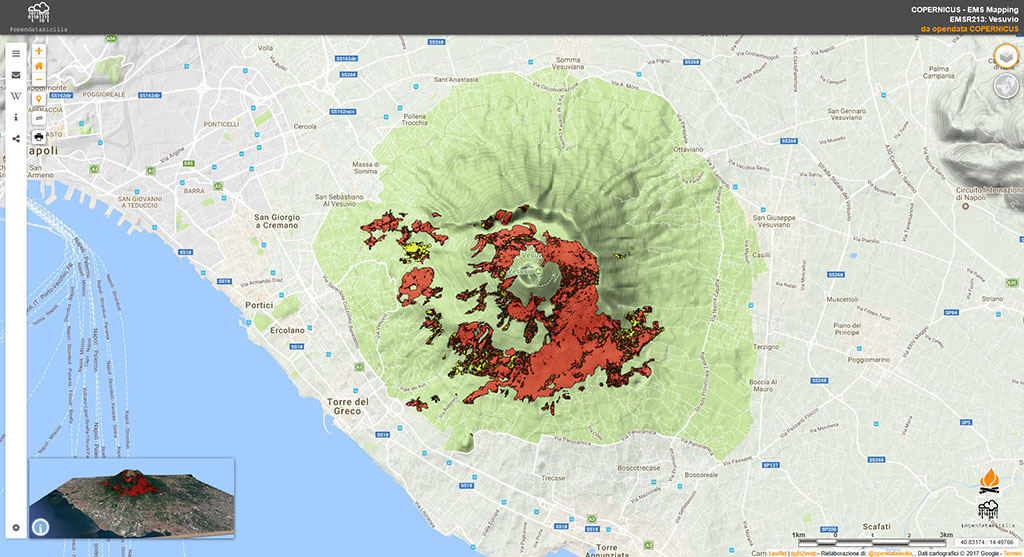
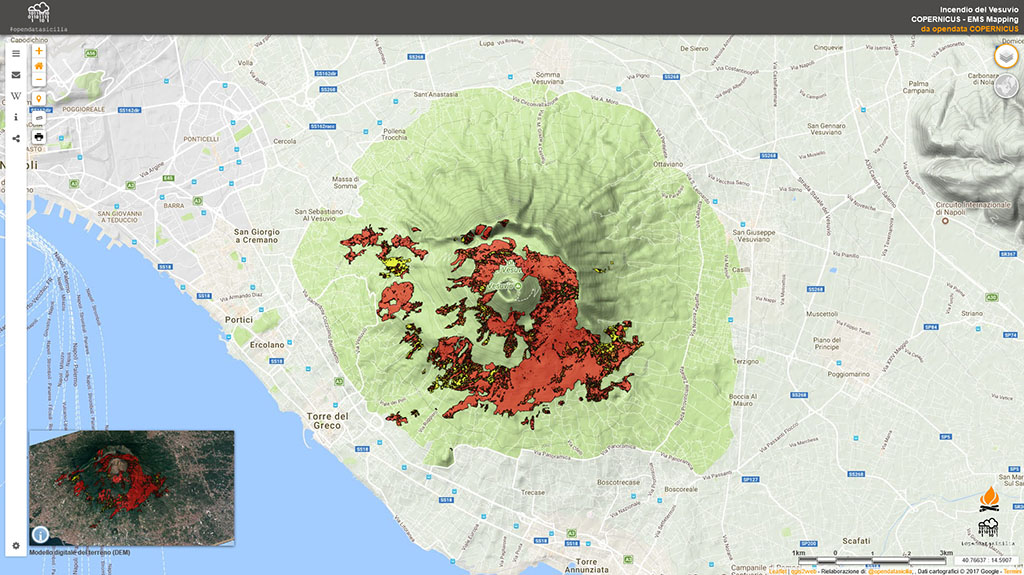
index upgrade

diff --git a/EMSR213/Vesuvio/index.html b/EMSR213/Vesuvio/index.html
@@ -1,10 +1,10 @@
 <!doctype html>
 <html lang="it">
     <head>
- <title>COPERNICUS - Emergency Management Service - EMSR213: Forest Fire in Southern Italy - Vesuvio</title>
+ <title>Incendio Vesuvio, situazione drammatica - COPERNICUS - Emergency Management Service</title>
         <meta charset="utf-8">
         <meta http-equiv="X-UA-Compatible" content="IE=edge">
-        <meta name="description" content="EMSR213: Forest Fire in Southern Italy - Vesuvio su base opendata">
+        <meta name="description" content="COPERNICUS - Emergency Management Service - EMSR213: Forest Fire in Southern Italy - Vesuvio su base opendata">
         <meta name="keywords" content="Open Data,Sicilia, protezione civile, piano emergenza, incendi,">
         <meta name="author" content="Giovan Battista Vitrano per OpenDataSicilia.it">
         <meta http-equiv="content-language" content="IT">
@@ -27,7 +27,7 @@
 </script> 
         
  <!-- Open Graph Protocol -->
-<meta property="og:title" content="EMSR213: Forest Fire in Southern Italy - Vesuvio" />
+<meta property="og:title" content="Incendio Vesuvio, situazione drammatica" />
 <meta property="og:description" content="COPERNICUS - Emergency Management - EMSR213: Forest Fire in Southern Italy - Vesuvio, su base opendata." />
 <meta property="og:url" content="http://siciliahub.github.io/mappe/EMSR213/Vesuvio/index.html" />
 <meta property="article:author" content="Giovan Battista Vitrano per Open Data Sicilia" />
@@ -37,7 +37,7 @@
 
 <!-- twitter -->
 <meta name="twitter:card" content="summary_large_image" />
-<meta name="twitter:title" content="EMSR213: Forest Fire in Southern Italy - Vesuvio">
+<meta name="twitter:title" content="Incendio Vesuvio, situazione drammatica">
 <meta name="twitter:description" content="COPERNICUS - Emergency Management - EMSR213: Forest Fire in Southern Italy - Vesuvio, su base opendata.">
 <meta name="twitter:image" content="http://siciliahub.github.io/mappe/EMSR213/Vesuvio/legend/vesuvio_1024.jpg">
 <meta name="twitter:creator" content="@gbvitrano Giovan Battista Vitrano per Open Data Sicilia">
@@ -114,8 +114,9 @@
  <!-- Tab intro -->
 <div class="sidebar-content">
 <div class="sidebar-pane" id="home">
-<h2 class="sidebar-header">COPERNICUS - E.M.S. Mapping<span class="sidebar-close"><i class="fa fa-caret-left"></i></span></h2>
- <p class="lorem"><strong>COPERNICUS - Emergency Management Service<br>EMSR213: Forest Fire in Southern Italy -  Vesuvio</strong> <a href="http://emergency.copernicus.eu/mapping/list-of-components/EMSR213/ALL/EMSR213_01VESUVIO" title="EMSR213: Forest Fire in Southern Italy -  Vesuvio" target="_blank"><br>da opendata COPERNICUS</a></p>
+<h2 class="sidebar-header">Incendio del Vesuvio<span class="sidebar-close"><i class="fa fa-caret-left"></i></span></h2>
+ <p class="lorem"><strong>L'incendio Vesuvio, una situazione drammatica vista da COPERNICUS - Emergency Management Service<br>
+     <a href="http://emergency.copernicus.eu/mapping/list-of-components/EMSR213" title="EMSR213: Forest Fire in Southern Italy" target="_blank">EMSR213: Forest Fire in Southern Italy</a></strong> <a href="http://emergency.copernicus.eu/mapping/list-of-components/EMSR213/ALL/EMSR213_01VESUVIO" title="EMSR213: Forest Fire in Southern Italy -  Vesuvio" target="_blank"><br>da opendata COPERNICUS</a></p>
 <strong>Authorized User:</strong><br>
 Italy|Presidenza del Consiglio dei Ministri - Dipartimento della Protezione Civile - Centro Situazioni<br><br>
 <strong>Activation Reason: </strong><br>
@@ -131,19 +132,17 @@ During recent weeks almost the whole Italian National Territory has suffered a p
 <!-- Tab info -->
        <div class="sidebar-pane" id="info">
        <h2 class="sidebar-header">Informazioni<span class="sidebar-close"><i class="fa fa-caret-left"></i></span></h2>
- <p class="lorem"> <strong>Rielaborazione di: </strong><a href="https://twitter.com/gbvitrano" target="_blank" title="Giovan Battista Vitrano">@gbvitrano</a><br>per <strong><a href="http://opendatasicilia.it/" Title="Open Data Sicilia" target="_blank">Open Data Sicilia</a></strong><br><br>
- 
-   <p class="lorem"><strong>Fonte dati:</strong> <br>  <a href="http://emergency.copernicus.eu/mapping/list-of-components/EMSR213" title="EMSR213: Forest Fire in Southern Italy" target="_blank">EMSR213: Forest Fire in Southern Italy</a><br>   
-<a href="http://emergency.copernicus.eu/mapping/list-of-components/EMSR213/ALL/EMSR213_01VESUVIO" title="EMSR213: Forest Fire in Southern Italy - Vesuvio" target="_blank">EMSR213: Forest Fire in Southern Italy - Vesuvio</a><br>
+ <p class="lorem"> <strong>Rielaborazione di: </strong><a href="https://twitter.com/gbvitrano" target="_blank" title="Giovan Battista Vitrano">@gbvitrano</a><br>per <strong><a href="http://opendatasicilia.it/" Title="Open Data Sicilia" target="_blank">Open Data Sicilia</a></strong><br>
+   <p class="lorem"><strong>Fonte dati:</strong> <br>  <a href="http://emergency.copernicus.eu/mapping/list-of-components/EMSR213" title="EMSR213: Forest Fire in Southern Italy" target="_blank">EMSR213: Forest Fire in Southern Italy</a>  
+<a href="http://emergency.copernicus.eu/mapping/list-of-components/EMSR213/ALL/EMSR213_01VESUVIO" title="EMSR213: Forest Fire in Southern Italy - Vesuvio" target="_blank">EMSR213: Forest Fire in Southern Italy - Vesuvio</a>
 <p class="lorem">Vector package Vesuvio: <a href="http://emergency.copernicus.eu/mapping/download/143756/EMSR213_01VESUVIO_02GRADING_MAP_v2_vector.zip" title="EMSR213: Forest Fire in Southern Italy - Vesuvio - File Vector SHP KMZ" target="_blank">file Zip</a></p> 
-
-<br><br><br><br><br><br><br><br><br><br><br><br><br><br><br><br><br><br><br><br><br><br>
+<p class="lorem"><strong>News </strong> del 05/07/2017 Brucia ancora il Vesuvio. Un incendio ha distrutto diversi ettari di ... - <a href="http://amalfinotizie.it/incendio-vesuvio/" title="News del 05/07/2017 Brucia ancora il Vesuvio. Un incendio ha distrutto diversi ettari di ... - Amalfi Notizie" target="_blank">Amalfi Notizie</a></p> 
+<p class="lorem"><strong>News </strong> del 11/07/2017 Incendio Vesuvio, situazione drammatica: evacuazioni in corso ... - <a href="http://www.meteoweb.eu/foto/incendio-vesuvio-situazione-drammatica-evacuazioni-in-corso-mandateci-lesercito-e-un-disastro-foto-live/id/931414/" title="Incendio Vesuvio, situazione drammatica: evacuazioni in corso" target="_blank">Meteo Web</a></p> 
+ <a href="http://www.meteoweb.eu/foto/incendio-vesuvio-situazione-drammatica-evacuazioni-in-corso-mandateci-lesercito-e-un-disastro-foto-live/id/931414/" target="_blank" title="EMSR213 - Vesuvio: Grading Map, Monitoring 1 -  JPEG: 200 DPI"><img src="http://www.meteoweb.eu/wp-content/uploads/2017/07/incendio-vesuvio-11-luglio-2017-5-561x420.jpg"alt="EMSR213 - Vesuvio: Grading Map, Monitoring 1" width="400" height="566" class="clip_370" title="News del 11/07/2017 Incendio Vesuvio, situazione drammatica: evacuazioni in corso ... - Meteo Web"/></a><br>
 <p class="lorem">I contenuti della mappa sono rilasciati con la licenza: <a href="http://effis.jrc.ec.europa.eu/about-effis/data-license/" title="Data License - EFFIS" target="_blank"><br><strong>Data License - EFFIS</strong></a> </p> 
-<hr>
 <p class="lorem">  <em><strong>Disclaimer of liability</strong></em><br>
-  <em>Copernicus EMS - Mapping mira a fornire prodotti quanto più accurati possibile. Tuttavia, le informazioni prodotte hanno limitazioni dovute alla scala, alla risoluzione, alla data e ai metodi di interpretazione dei dati originali dei materiali originali / satellitari.</em><br><br>
+  <em>Copernicus EMS - Mapping mira a fornire prodotti quanto più accurati possibile. Tuttavia, le informazioni prodotte hanno limitazioni dovute alla scala, alla risoluzione, alla data e ai metodi di interpretazione dei dati originali dei materiali originali / satellitari.</em><br>
   <em>I prodotti Copernicus EMS - Mapping sono forniti "come è" senza alcuna garanzia, espressa o implicita, inclusa la qualità o l'idoneità per qualsiasi scopo. L'intero rischio relativo all'utilizzo di questi prodotti è assunto dall'Utente e l'UE non si assume alcuna responsabilità per eventuali perdite, danni o inconvenienti causati dalla dipendenza dai prodotti Copernicus EMS-Mapping.</em></p>
-</p><br>
 </div>
 
 <!-- Tab Glossario -->
@@ -196,6 +195,9 @@ During recent weeks almost the whole Italian National Territory has suffered a p
 <li><p class="lorem"><a href="http://u.osmfr.org/m/89239/" title="Piano Protezione Civile Palermo da open data comunale" target="_blank">Piano Protezione Civile Palermo da open data comunale</a>, rielaborazione opendata di: <a href="https://twitter.com/cirospat" target="_blank" title="Ciro Spataro">@cirospat</a> (rielaborazione di riferimento) <br><br></li></p>
 <li><p class="lorem"><a href="http://www.qgis.org/it/site/" title="Qgis" target="_blank">Qgis,</a> per creare, modificare, visualizzare, analizzare e pubblicare le informazioni geospaziali su Windows, Mac, Linux, BSD;<br><br></li></p>
 <li><p class="lorem"><a href="https://github.com/tomchadwin/qgis2web" title="Qtiles" target="_blank">Qgis2web ,</a>plugin per Qgis per esportare il progetto in un webmap OpenLayers o foglio elettronico. Non è richiesto alcun software lato server;<br><br></li></p>
+
+<li><p class="lorem"><a href="https://github.com/minorua/Qgis2threejs" title="Qgis2threejs " target="_blank">Qgis2threejs  ,</a>il plugin esporta i dati del terreno, l'immagine delle telecamere e i dati vettoriali sul tuo browser web. È possibile visualizzare gli oggetti 3D nel browser web che supporta WebGL;<br><br></li></p>
+
 <li><p class="lorem"><a href="http://leafletjs.com/" title="Leaflet" target="_blank">Leaflet,</a> per creare l'interfaccia di web mapping;<br><br></li></p>
 <li><p class="lorem"><a href="https://github.com/mlevans/leaflet-hash" title="Leaflet-hash" target="_blank">Leaflet-hash</a>, per generare URL che contengono livello di zoom e posizione corrente;<br><br></li></p>
 <li><p class="lorem"><a href="https://github.com/turbo87/sidebar-v2/" title="Sidebar-v2" target="_blank">Sidebar-v2</a>, per creare questa sidebar a scomparsa;<br><br></li></p>
@@ -205,14 +207,11 @@ During recent weeks almost the whole Italian National Territory has suffered a p
 <li><p class="lorem"><a href="https://github.com/ppete2/Leaflet.PolylineMeasure" title="Leaflet.PolylineMeasure" target="_blank">Leaflet.PolylineMeasure</a>, consente di misurare distanze con linee semplici, sistema metrico (metri, chilometri).<br><br></li></p>
 <li><p class="lorem"><a href="https://github.com/torfsen/leaflet.zoomhome" title="Leaflet.zoomhome" target="_blank">Leaflet.zoomhome</a>, aggiunge un pulsante Home al controllo zoom per ripristinare la visualizzazione.<br><br></li></p>
 <li><p class="lorem"><a href="https://github.com/rowanwins/leaflet-easyPrint" title="Leaflet-easyPrint" target="_blank">Leaflet-easyPrint</a>, un semplice plugin che aggiunge un'icona per stampare la mappa.<br><br></li></p>
-
-<li><p class="lorem">Icone per le tue mappe <a href="https://mapicons.mapsmarker.com/category/markers/stores/" title="Map Icons Collection" target="_blank"><img src="https://mapicons.mapsmarker.com/wp-content/uploads/2011/03/miclogo-88x31.gif" width="88" height="31" alt=""/></a> <br><br></li></p>
-        </ul>
+<li><p class="lorem"><a href="earthexplorer.usgs.gov" title="Modelli digitale del terreno - DEM" target="_blank">USGS - EarthExplorer</a>, Modello digitale del terreno<br><br></li></p>
+      </ul>
 </div>
 </div>
-</div>    
-    
-    
+</div>     
 <!-- Mappa  -->
 <div id="map" class="sidebar-map"></div>
         <script>
@@ -391,13 +390,15 @@ L.tileLayer('https://server.arcgisonline.com/ArcGIS/rest/services/World_Imagery/
 <div id="bot" class="leaflet-control">
 <div id="logo"><a href="http://opendatasicilia.it/" target="_blank"><img src="lib/images/logo_ods_b.png" alt="" height="60" title="opendatasicilia.it"/></a>  </div>  
 <div id="titolo"> 
-  <h1> COPERNICUS - EMS Mapping<br>EMSR213: Vesuvio<br>
+  <h1>Incendio del Vesuvio<br>COPERNICUS - EMS Mapping<br>
     <a href="http://emergency.copernicus.eu/mapping/list-of-components/EMSR213/ALL/EMSR213_01VESUVIO" title="COPERNICUS - Emergency Management Service - EMSR213: Forest Fire in Southern Italy -  Vesuvio" target="_blank">da opendata COPERNICUS </a></h1>
    </div> 
 </div>
 <div id="threejs" class="leaflet-control">
 <iframe src="qgis2threejs/vesuvio_3d_clip.html" frameborder="0" style="overflow:hidden;overflow-x:hidden;overflow-y:hidden;height:100%;width:100%;position:absolute;top:0px;left:0px;right:0px;bottom:0px" height="100%" width="100%"></iframe>
 </div> 
+<div id="threejs_testo" class="leaflet-control legenda1">
+  <a href="qgis2threejs/vesuvio_3d.html" title=" Modello digitale del terrenoVisualizza a schermo intero" target="_blank">Modello digitale del terreno (DEM)</a> </div> 
 <div id="ods"><a href="http://opendatasicilia.it/" title="opendatasicilia.it" target="_blank"> 
 <img src="legend/ods.png" width="100" title="opendatasicilia.it" alt="opendatasicilia"></a></div>   
 <div id="itaf"><a href="http://italiaafuoco.info/" title="italiaafuoco.info" target="_blank"> 

diff --git a/EMSR213/Vesuvio/lib/css/atlante_01.css b/EMSR213/Vesuvio/lib/css/atlante_01.css
@@ -23,17 +23,22 @@ a:active {color: #FF0000; text-decoration:none; }
 .clip_omira {width: 60px; height: 69px; border-radius: 5px;  -moz-border-radius: 5px;  -webkit-border-radius: 5px;border: 1px solid #ccc;background-color:#fff; padding:1px; box-shadow: 0 2px 5px rgba(0,0,0,0.2) }
 
 .clip_omira:hover {opacity: 1;  -webkit-filter: grayscale(100%); } .clip_irta {width: 370px; height: 524px; border-radius: 5px;  -moz-border-radius: 5px;  -webkit-border-radius: 5px;border: 1px solid #ccc;background-color:#fff; padding:1px; box-shadow: 0 2px 5px rgba(0,0,0,0.2) } .clip_irta:hover {opacity: 1;  -webkit-filter: grayscale(100%); }
- 
+  .clip_370 {width: 370px; height: 277px; border-radius: 5px;  -moz-border-radius: 5px;  -webkit-border-radius: 5px;border: 1px solid #ccc;background-color:#fff; padding:1px; box-shadow: 0 2px 5px rgba(0,0,0,0.2) }
 #bot {	position: fixed; width: 100%;	height: 65px;	background: #fff;	background-color: /*rgba(255,255,255,1);*/ rgba(78,75,75,1.00);	box-shadow: 0 1px 5px rgba(0,0,0,0.65);	padding: 0;	margin: 0;top: 0px;	right: 0px;	z-index: 1000;	text-align: left;}
 
-#threejs {	position: fixed; width: 20%;	height: 20%;	background: #fff;	background-color: /*rgba(255,255,255,1);*/ rgba(255,255,255,0.10);	box-shadow: 0 1px 5px rgba(0,0,0,0.65);	padding: 0;	margin: 35px; bottom: 0px;	left: 20px;	z-index: 1000;}
+#threejs {	position: fixed; width: 20%;	height: 20%;	background: #fff;	background-color: /*rgba(255,255,255,1);*/ rgba(255,255,255,0.10);	box-shadow: 0 1px 5px rgba(0,0,0,0.65);	padding: 0;	margin: 35px; bottom: 20px;	left: 20px;	z-index: 1000; resize: both; overflow: auto;}
 
-
+#threejs_testo {	position: fixed; width: 20%;	height: 20px;padding: 0;	margin: 35px; bottom: -5px;	left: 20px;	z-index: 1000;}
 
 #note {position: relative;left:60px; bottom: 20px; width: 290px;	padding: 0;   /*top:60px;*/ right: 0px;	z-index: 1000;	text-align: right;}
 
-.legenda {font-style: normal; font-weight:bold; font-size:16px; color: #4E4B4B; text-align: justify; }
+.legenda  {font-style: normal; font-weight:bold; font-size:16px; color: #4E4B4B; text-align: justify; }
 .legenda1 {font-style: normal; font-weight:bold; font-size:12px; color: #4E4B4B; text-align: justify; }
+
+.legenda1 a:link{color: #4E4B4B;	text-decoration:none;}
+.legenda1 a:visited {	color: #4E4B4B;}
+.legenda1 a:hover {color: #FFFFFF; text-decoration:underline; } 
+
 
 #logo {position:fixed; left:1%; width: 5%;  top:2px; z-index: 1000;}
 #titolo  {

diff --git a/EMSR213/Vesuvio/qgis2threejs/Qgis2threejs.js b/EMSR213/Vesuvio/qgis2threejs/Qgis2threejs.js
@@ -346,8 +346,8 @@ limitations:
   };
 
   app.buildDefaultCamera = function () {
-    app.camera = new THREE.PerspectiveCamera(45, app.width / app.height, 0.1, 1000);
-    app.camera.position.set(0, -100, 100);
+    app.camera = new THREE.PerspectiveCamera(25, app.width / app.height, 0.1, 1000);
+    app.camera.position.set(-45, -120, 180);
   };
 
   app.currentViewUrl = function () {

diff --git a/EMSR213/Vesuvio/qgis2threejs/Qgis2threejs_clip.js b/EMSR213/Vesuvio/qgis2threejs/Qgis2threejs_clip.js
@@ -346,8 +346,8 @@ limitations:
   };
 
   app.buildDefaultCamera = function () {
-    app.camera = new THREE.PerspectiveCamera(45, app.width / app.height, 0.1, 1000);
-    app.camera.position.set(0, -100, 100);
+    app.camera = new THREE.PerspectiveCamera(11, app.width / app.height, 0.1, 1000);
+    app.camera.position.set(-45, -120, 180);
   };
 
   app.currentViewUrl = function () {

diff --git a/EMSR213/Vesuvio/qgis2threejs/vesuvio_3d.html b/EMSR213/Vesuvio/qgis2threejs/vesuvio_3d.html
@@ -68,7 +68,7 @@ and uses the following library:
 <script src="./threejs/OrbitControls.js"></script>
 <script>
 var option = Q3D.Options;
-option.bgcolor = 0xa3cdff;
+option.bgcolor = 0xffffff;
 </script>
 <script src="./proj4js/proj4.js"></script>
 <script src="./20170721120938.js"></script>
